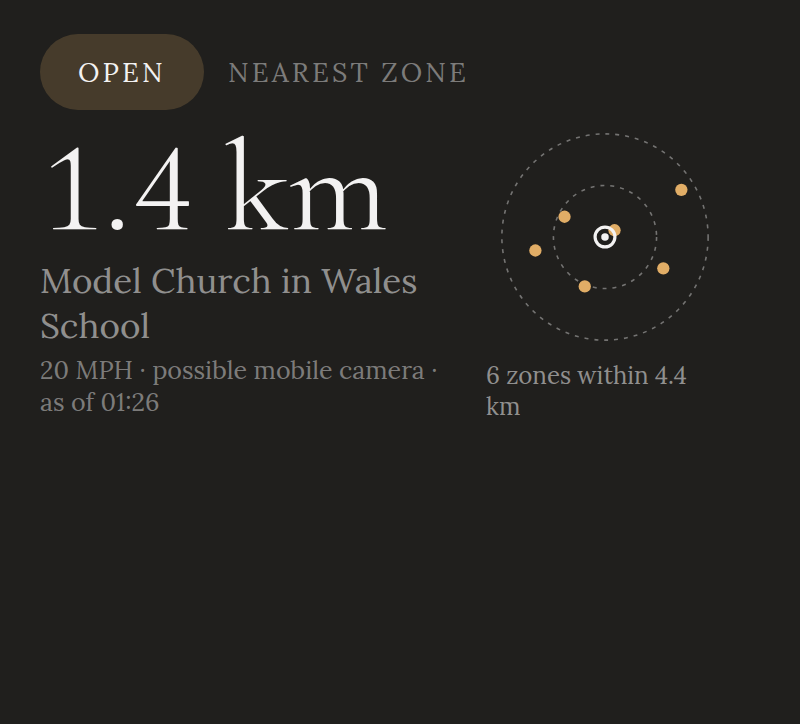
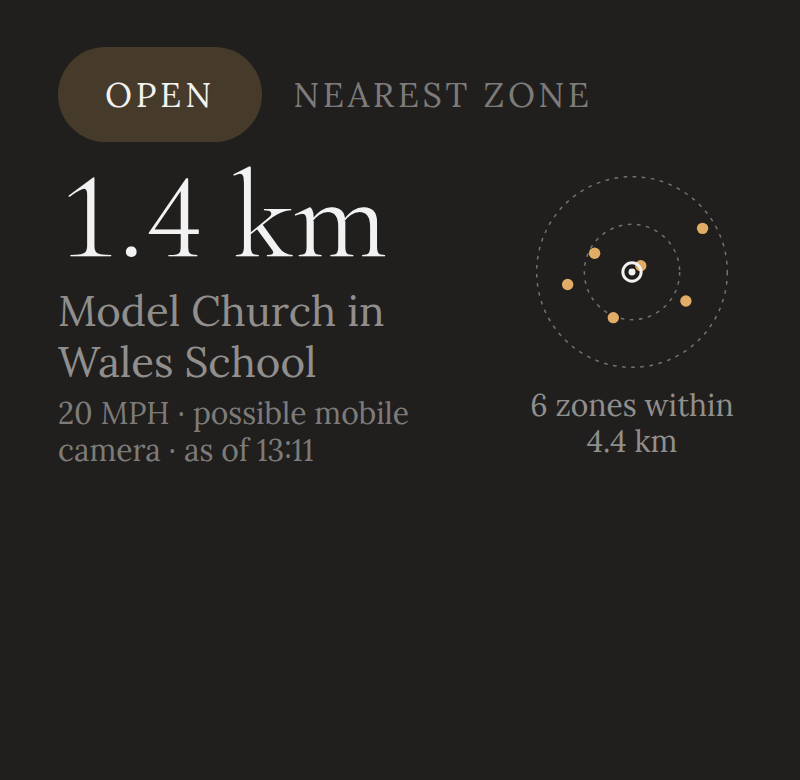
Give both panel columns a width, and the distance one that fits
My last explanation was wrong. That was not the host cropping the
bitmap — the meta line ends comfortably inside the card with its padding
intact, so the bitmap is the widget's real size. It is plain layout
overflow, and the crop guard I added was guarding against nothing.

The toolkit has no flex weights: a row hands each child whatever width
it asks for, and the first child asking for more than there is pushes
the rest off the edge. The reading column was unconstrained, so "Model
Church in Wales School" set itself on one long line and shoved the
diagram out of the widget entirely. `panelColumns` now divides the
padded width between the two, and the text wraps inside its own column.

The distance is derived from that column rather than fixed, because the
panel is much narrower than the editor's preview card suggests — a live
one measures about 305dp across, not 400 — and a size that fits a wide
widget wraps on a narrow one. Both rules have tests: the columns plus
their gap must add up to the width available, and the distance must fit
the column at Cormorant's real width per point.

Claude-Session: https://claude.ai/code/session_01BnrkekNYJBbs8uTjYCXUX4

diff --git a/widgets/VergeWidget.tsx b/widgets/VergeWidget.tsx
@@ -6,7 +6,7 @@ import { shortDate } from '../data/zones';
 import { flatten } from '../theme/mapStyle';
 import { dark, light } from '../theme/tokens';
 import { localityScale, localityRadius, localitySvg } from './locality';
-import { WidgetVariant, diagramColumnWidth } from './names';
+import { PANEL_GAP, WidgetVariant, panelColumns, panelHeadlineSize } from './names';
 import { WidgetSummary } from './summary';
 
 /** Widget styles take a literal hex; the tokens are opaque after flattening. */
@@ -42,7 +42,7 @@ const hex = (token: string, ground: string): Hex => flatten(token, ground) as He
 const SIZES = {
   compact: { pad: 12, padY: 8, radius: 18, kicker: 8, headline: 26, caption: 9, foot: 8, gap: 8 },
   tile: { pad: 14, padY: 13, radius: 22, kicker: 9, headline: 38, caption: 11, foot: 9, gap: 6 },
-  cover: { pad: 22, padY: 18, radius: 0, kicker: 13, headline: 64, caption: 17, foot: 12, gap: 10 },
+  cover: { pad: 22, padY: 18, radius: 0, kicker: 13, headline: 56, caption: 16, foot: 11.5, gap: 10 },
 } as const;
 
 const clock = (iso: string) => {
@@ -93,7 +93,10 @@ export function VergeWidget({
     const marks = summary?.nearby ?? [];
     // A cover screen is wider than it is tall, so the panel is two columns.
     // Stacking them ran the diagram off the bottom edge.
-    const diagram = diagramColumnWidth(width ?? 360);
+    const col = panelColumns(width ?? 360, s.pad);
+    // Sized to the column it sits in: a fixed size that fits a wide widget
+    // wraps on a narrow one, and this panel is narrower than it looks.
+    const headlineSize = panelHeadlineSize(col.reading);
 
     return (
       <FlexWidget
@@ -105,11 +108,10 @@ export function VergeWidget({
           justifyContent: 'flex-start',
           backgroundColor: ground,
           borderRadius: s.radius,
-          paddingLeft: s.pad,
+          paddingHorizontal: s.pad,
           paddingTop: s.padY,
-          // The far edges carry the crop guard, so nothing is placed where the
-          // host may decline to draw it.
-          paddingRight: s.pad * 2,
+          // Only the bottom keeps slack: the content is top-anchored and a host
+          // that gives less height than it promised should lose empty space.
           paddingBottom: s.padY * 2,
         }}
       >
@@ -151,10 +153,11 @@ export function VergeWidget({
             marginTop: 4,
           }}
         >
-          <FlexWidget style={{ flexDirection: 'column' }}>
+          <FlexWidget style={{ flexDirection: 'column', width: col.reading }}>
             <TextWidget
               text={headline}
-              style={{ fontSize: s.headline, color: ink, fontFamily: 'CormorantGaramond' }}
+              maxLines={1}
+              style={{ fontSize: headlineSize, color: ink, fontFamily: 'CormorantGaramond' }}
             />
             <TextWidget
               text={caption}
@@ -170,11 +173,16 @@ export function VergeWidget({
 
           {marks.length ? (
             <FlexWidget
-              style={{ flexDirection: 'column', alignItems: 'center', width: diagram, marginLeft: 16 }}
+              style={{
+                flexDirection: 'column',
+                alignItems: 'center',
+                width: col.diagram,
+                marginLeft: PANEL_GAP,
+              }}
             >
               <SvgWidget
                 svg={localitySvg(marks, { mark: markInk, ring: ringInk, ink })}
-                style={{ width: diagram, height: diagram }}
+                style={{ width: col.diagram, height: col.diagram }}
               />
               <TextWidget
                 text={`${marks.length} ${marks.length === 1 ? 'zone' : 'zones'} within ${localityScale(localityRadius(marks))}`}

diff --git a/widgets/names.ts b/widgets/names.ts
@@ -20,30 +20,36 @@ const COVER_FROM_DP = 200;
 export const variantForHeight = (heightDp: number): WidgetVariant =>
   heightDp < COMPACT_UNDER_DP ? 'compact' : heightDp < COVER_FROM_DP ? 'tile' : 'cover';
 
-/**
- * How much of the reported size can actually be drawn on.
- *
- * The widget's bitmap is painted from the top left and whatever falls past the
- * view's right or bottom edge is cropped, not scaled — so a host that hands
- * back a size larger than it will really show silently eats the far corner. A
- * Flip's cover screen does exactly that, in both directions: it took the OPEN
- * button off the right and the diagram off the bottom.
- *
- * There is no way to ask how much is lost, so the layout keeps clear of both
- * edges instead. A tenth is enough for what has been seen and cheap if the
- * host was honest all along.
- */
-export const SAFE_FRACTION = 0.9;
-export const safeSize = (dp: number): number => Math.floor(dp * SAFE_FRACTION);
+/** Space between the reading and the diagram beside it. */
+export const PANEL_GAP = 14;
 
 /**
- * How wide the diagram's column gets at panel size.
+ * How the panel's width is divided between the reading and the diagram.
  *
- * A Flip's cover screen is wider than it is tall, so the panel reads as two
- * columns — the reading on the left, the locality on the right — rather than
- * one stack that runs off the bottom. The toolkit has no flex weights, only
- * fixed sizes, so the split is computed from the width Android reports, less
- * the edge that may never be drawn.
+ * The toolkit has no flex weights — a row lays its children out at whatever
+ * width they ask for, and the first child asking for more than there is pushes
+ * the rest off the edge. A road name is exactly that: left unconstrained,
+ * "Model Church in Wales School" sets itself on one long line and the diagram
+ * leaves the widget entirely. So both columns are given an explicit width and
+ * the text wraps inside its own.
  */
-export const diagramColumnWidth = (widthDp: number): number =>
-  Math.max(84, Math.min(140, Math.round(safeSize(widthDp) * 0.34)));
+/**
+ * How large the distance can be set without wrapping in its column.
+ *
+ * Measured off a real cover screen: Cormorant sets a string like "12.4 km" at
+ * roughly 3.4dp of width per point of size, so a third of the column is the
+ * ceiling and a little under is the safe number. Derived rather than fixed
+ * because the same layout has to serve a cover panel and a large home-screen
+ * widget, and a size chosen for one looks wrong on the other.
+ */
+export const panelHeadlineSize = (readingDp: number): number =>
+  Math.max(30, Math.min(72, Math.round(readingDp * 0.28)));
+
+export function panelColumns(
+  widthDp: number,
+  paddingDp: number,
+): { reading: number; diagram: number } {
+  const inner = Math.max(0, widthDp - paddingDp * 2);
+  const diagram = Math.max(80, Math.min(130, Math.round(inner * 0.32)));
+  return { reading: Math.max(0, inner - PANEL_GAP - diagram), diagram };
+}

diff --git a/tests/widget-theme.test.ts b/tests/widget-theme.test.ts
@@ -1,7 +1,7 @@
 import assert from 'node:assert/strict';
 import { test } from 'node:test';
 
-import { diagramColumnWidth } from '../widgets/names';
+import { PANEL_GAP, panelColumns, panelHeadlineSize } from '../widgets/names';
 import { widgetIsDark } from '../widgets/theme';
 
 test('the widget draws in the palette the app was set to', () => {
@@ -20,11 +20,36 @@ test('a summary written before the setting existed still renders', () => {
   assert.equal(widgetIsDark(undefined, false), false);
 });
 
-test('the layout keeps clear of edges the host may crop', () => {
-  // Both edges have been seen to eat content on a Flip's cover screen, so the
-  // diagram column is sized from less than the width that was reported.
-  assert.ok(diagramColumnWidth(400) < 400 * 0.34, 'the split must allow for a cropped edge');
-  // And it stays sane at both extremes rather than collapsing or running away.
-  assert.equal(diagramColumnWidth(120), 84);
-  assert.equal(diagramColumnWidth(2000), 140);
+test('the two columns and the gap between them fit the width available', () => {
+  // The bug this guards: an unconstrained reading column set a long road name
+  // on one line and pushed the diagram off the right edge of the widget.
+  for (const width of [200, 320, 361, 420, 900]) {
+    const pad = 22;
+    const { reading, diagram } = panelColumns(width, pad);
+    assert.equal(
+      reading + PANEL_GAP + diagram,
+      width - pad * 2,
+      `columns must exactly fill the padded width at ${width}dp`,
+    );
+    assert.ok(reading > 0 && diagram > 0, `both columns need room at ${width}dp`);
+  }
+});
+
+test('the diagram stays legible without crowding out the reading', () => {
+  assert.equal(panelColumns(120, 22).diagram, 80);
+  assert.equal(panelColumns(2000, 22).diagram, 130);
+  // On a real cover screen the reading keeps the larger share.
+  const { reading, diagram } = panelColumns(361, 22);
+  assert.ok(reading > diagram, 'the distance is the point; the diagram supports it');
+});
+
+test('the distance is sized to fit its column rather than wrapping', () => {
+  // A real cover screen: ~305dp wide, so a reading column near 167dp.
+  const { reading } = panelColumns(305, 22);
+  const size = panelHeadlineSize(reading);
+  // Cormorant needs roughly 3.4dp per point for a string like "12.4 km".
+  assert.ok(size * 3.4 <= reading, `"12.4 km" at ${size}pt must fit ${reading}dp`);
+  // And it does not collapse on a tiny widget or run away on a large one.
+  assert.equal(panelHeadlineSize(10), 30);
+  assert.equal(panelHeadlineSize(1000), 72);
 });

diff --git a/README.md b/README.md
@@ -246,41 +246,26 @@ with real space around them.
 At panel size the widget carries the drive HUD's reading — distance, road,
 limit — a **locality diagram**, and an **OPEN** button.
 
-It is laid out as **two columns**, because a Flip's cover screen is wider than
-it is tall — 1048x948 — and a single stack ran off the bottom edge. The reading
-sits left, the locality right.
+It is laid out as **two columns** — the reading left, the locality right —
+because a single stack ran off the bottom.
 
-**Both far edges are treated as unsafe.** The widget's bitmap is painted from
-the top left and anything past the view's right or bottom edge is cropped, not
-scaled, so a host that reports a size larger than it will really show silently
-eats the far corner. A Flip's cover screen does that in both directions: it took
-the diagram off the bottom and then, in the next build, the OPEN button off the
-right. There is no way to ask how much is lost, so `SAFE_FRACTION` keeps the
-layout a tenth clear of it, the far padding is doubled, and **OPEN leads the top
-line hard against the left margin** — the one corner a cropped bitmap always
-keeps, because it is where the drawing starts. The kicker follows it and may
-truncate, which costs a label rather than the way into the app.
+**Both columns are given an explicit width**, and that is the whole trick. The
+toolkit has no flex weights: a row hands each child whatever width it asks for,
+and the first child asking for more than there is pushes the rest off the edge.
+A road name is exactly that. Left unconstrained, "Model Church in Wales School"
+set itself on one long line and shoved the diagram clean out of the widget. So
+`panelColumns` divides the padded width between the two and the text wraps
+inside its own column.
 
-`diagramColumnWidth` splits the columns from the width Android reports, less
-that allowance, rather than from a number picked in advance.
+The distance is sized the same way. `panelHeadlineSize` derives it from the
+reading column rather than fixing it, because the panel is narrower than it
+looks — a live cover widget measured about 305dp across, not the ~400dp the
+editor's preview card suggests — and a size that fits a wide widget wraps on a
+narrow one. Cormorant needs roughly 3.4dp of width per point for a string like
+"12.4 km"; the tests hold the layout to that.
 
-The diagram (`widgets/locality.ts`) is not a street map, deliberately. An
-Android widget draws a static image, so a real map would be a photograph of
-somewhere you *were*, and a photograph of a map reads as live in a way a diagram
-does not. This draws only what the app already knows and can state honestly: you
-at the centre, the published zones around you as marks, two range rings, and the
-radius in words beside it. It costs nothing, needs no signal, and is rendered as
-an SVG string the widget toolkit turns into the bitmap.
-
-The palette comes from the app's Appearance setting rather than the system
-(`widgets/theme.ts`), so a widget matches the app that owns it. Getting that to
-*arrive* needed `widgets/refresh.ts`: the summary's writes are throttled because
-a driving fix lands every second, but that throttle is about position and must
-not gate anything else. It did, and a changed Appearance sat unseen until the
-driver moved a hundred metres. `system` is
-resolved when the widget renders, not when the summary is written — the phone
-can switch to dark hours after the app was last open, and the widget follows it
-there.
+**OPEN leads the top line**, hard against the left margin, where it is
+unmissable and cannot be pushed anywhere by the content beside it.
 
 **`assets/widget-preview.png`** is what the picker draws: the widget's own layout
 (`@layout/rn_widget`, from the library) is a transparent frame that the app fills
